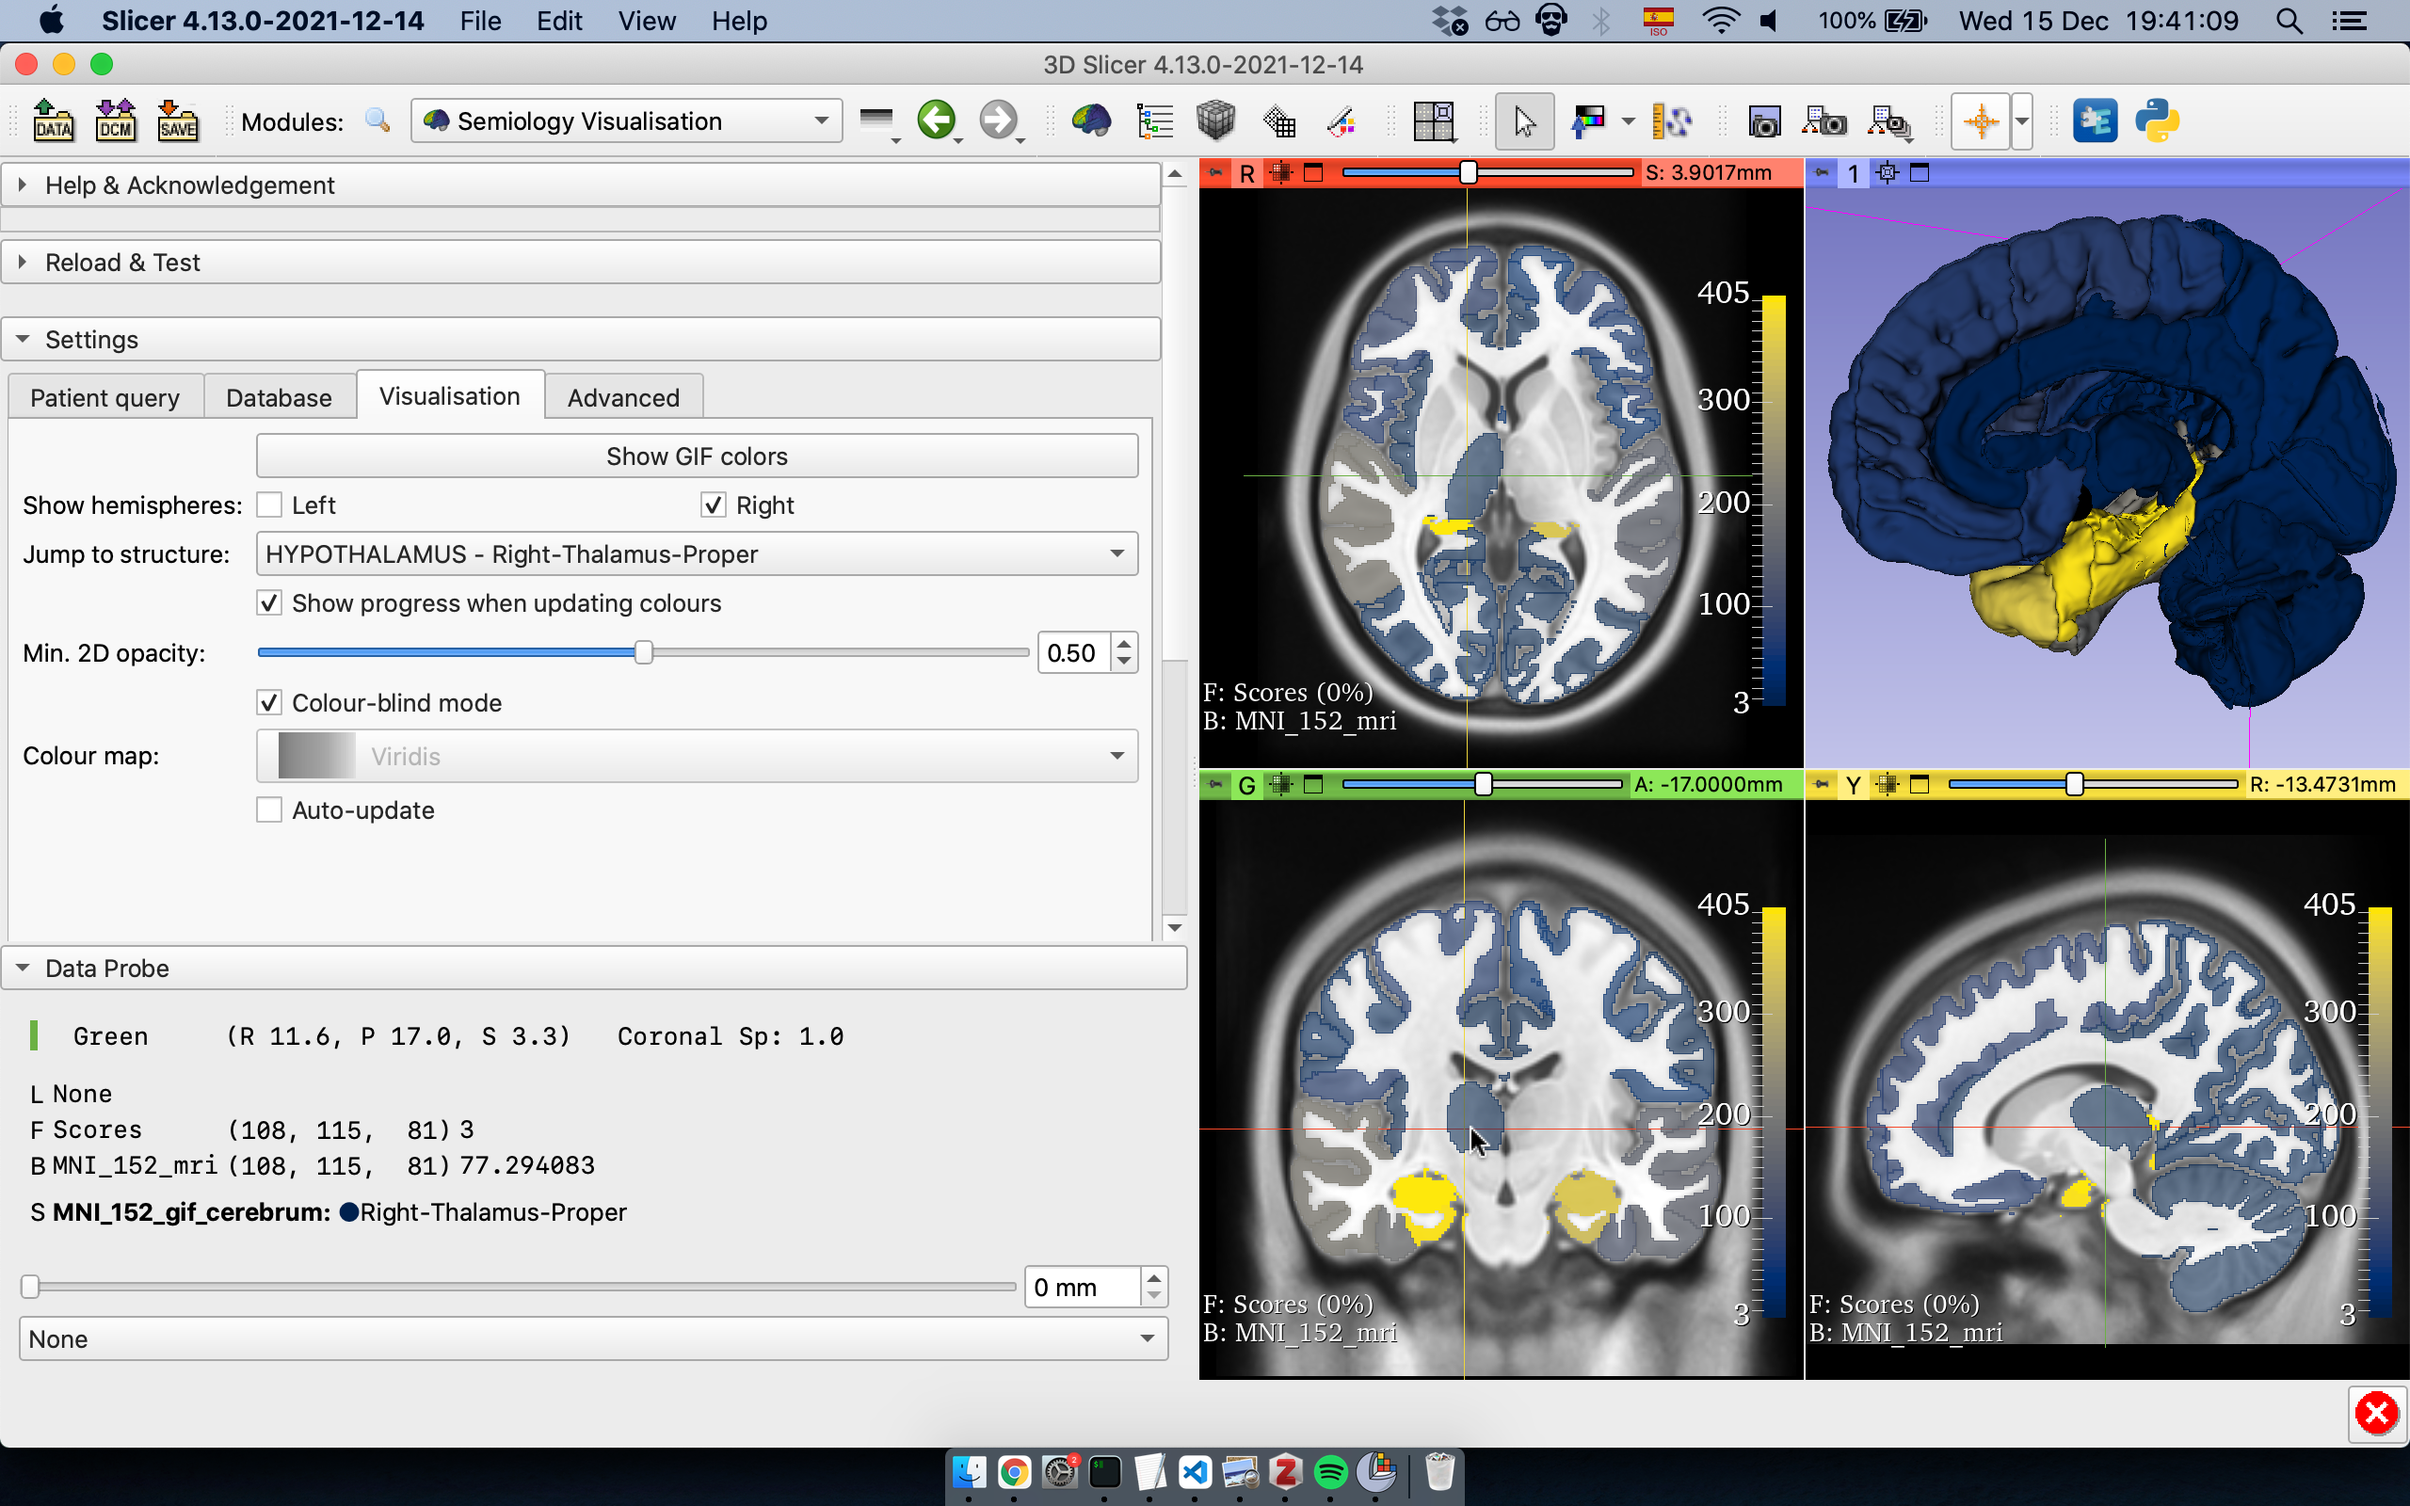
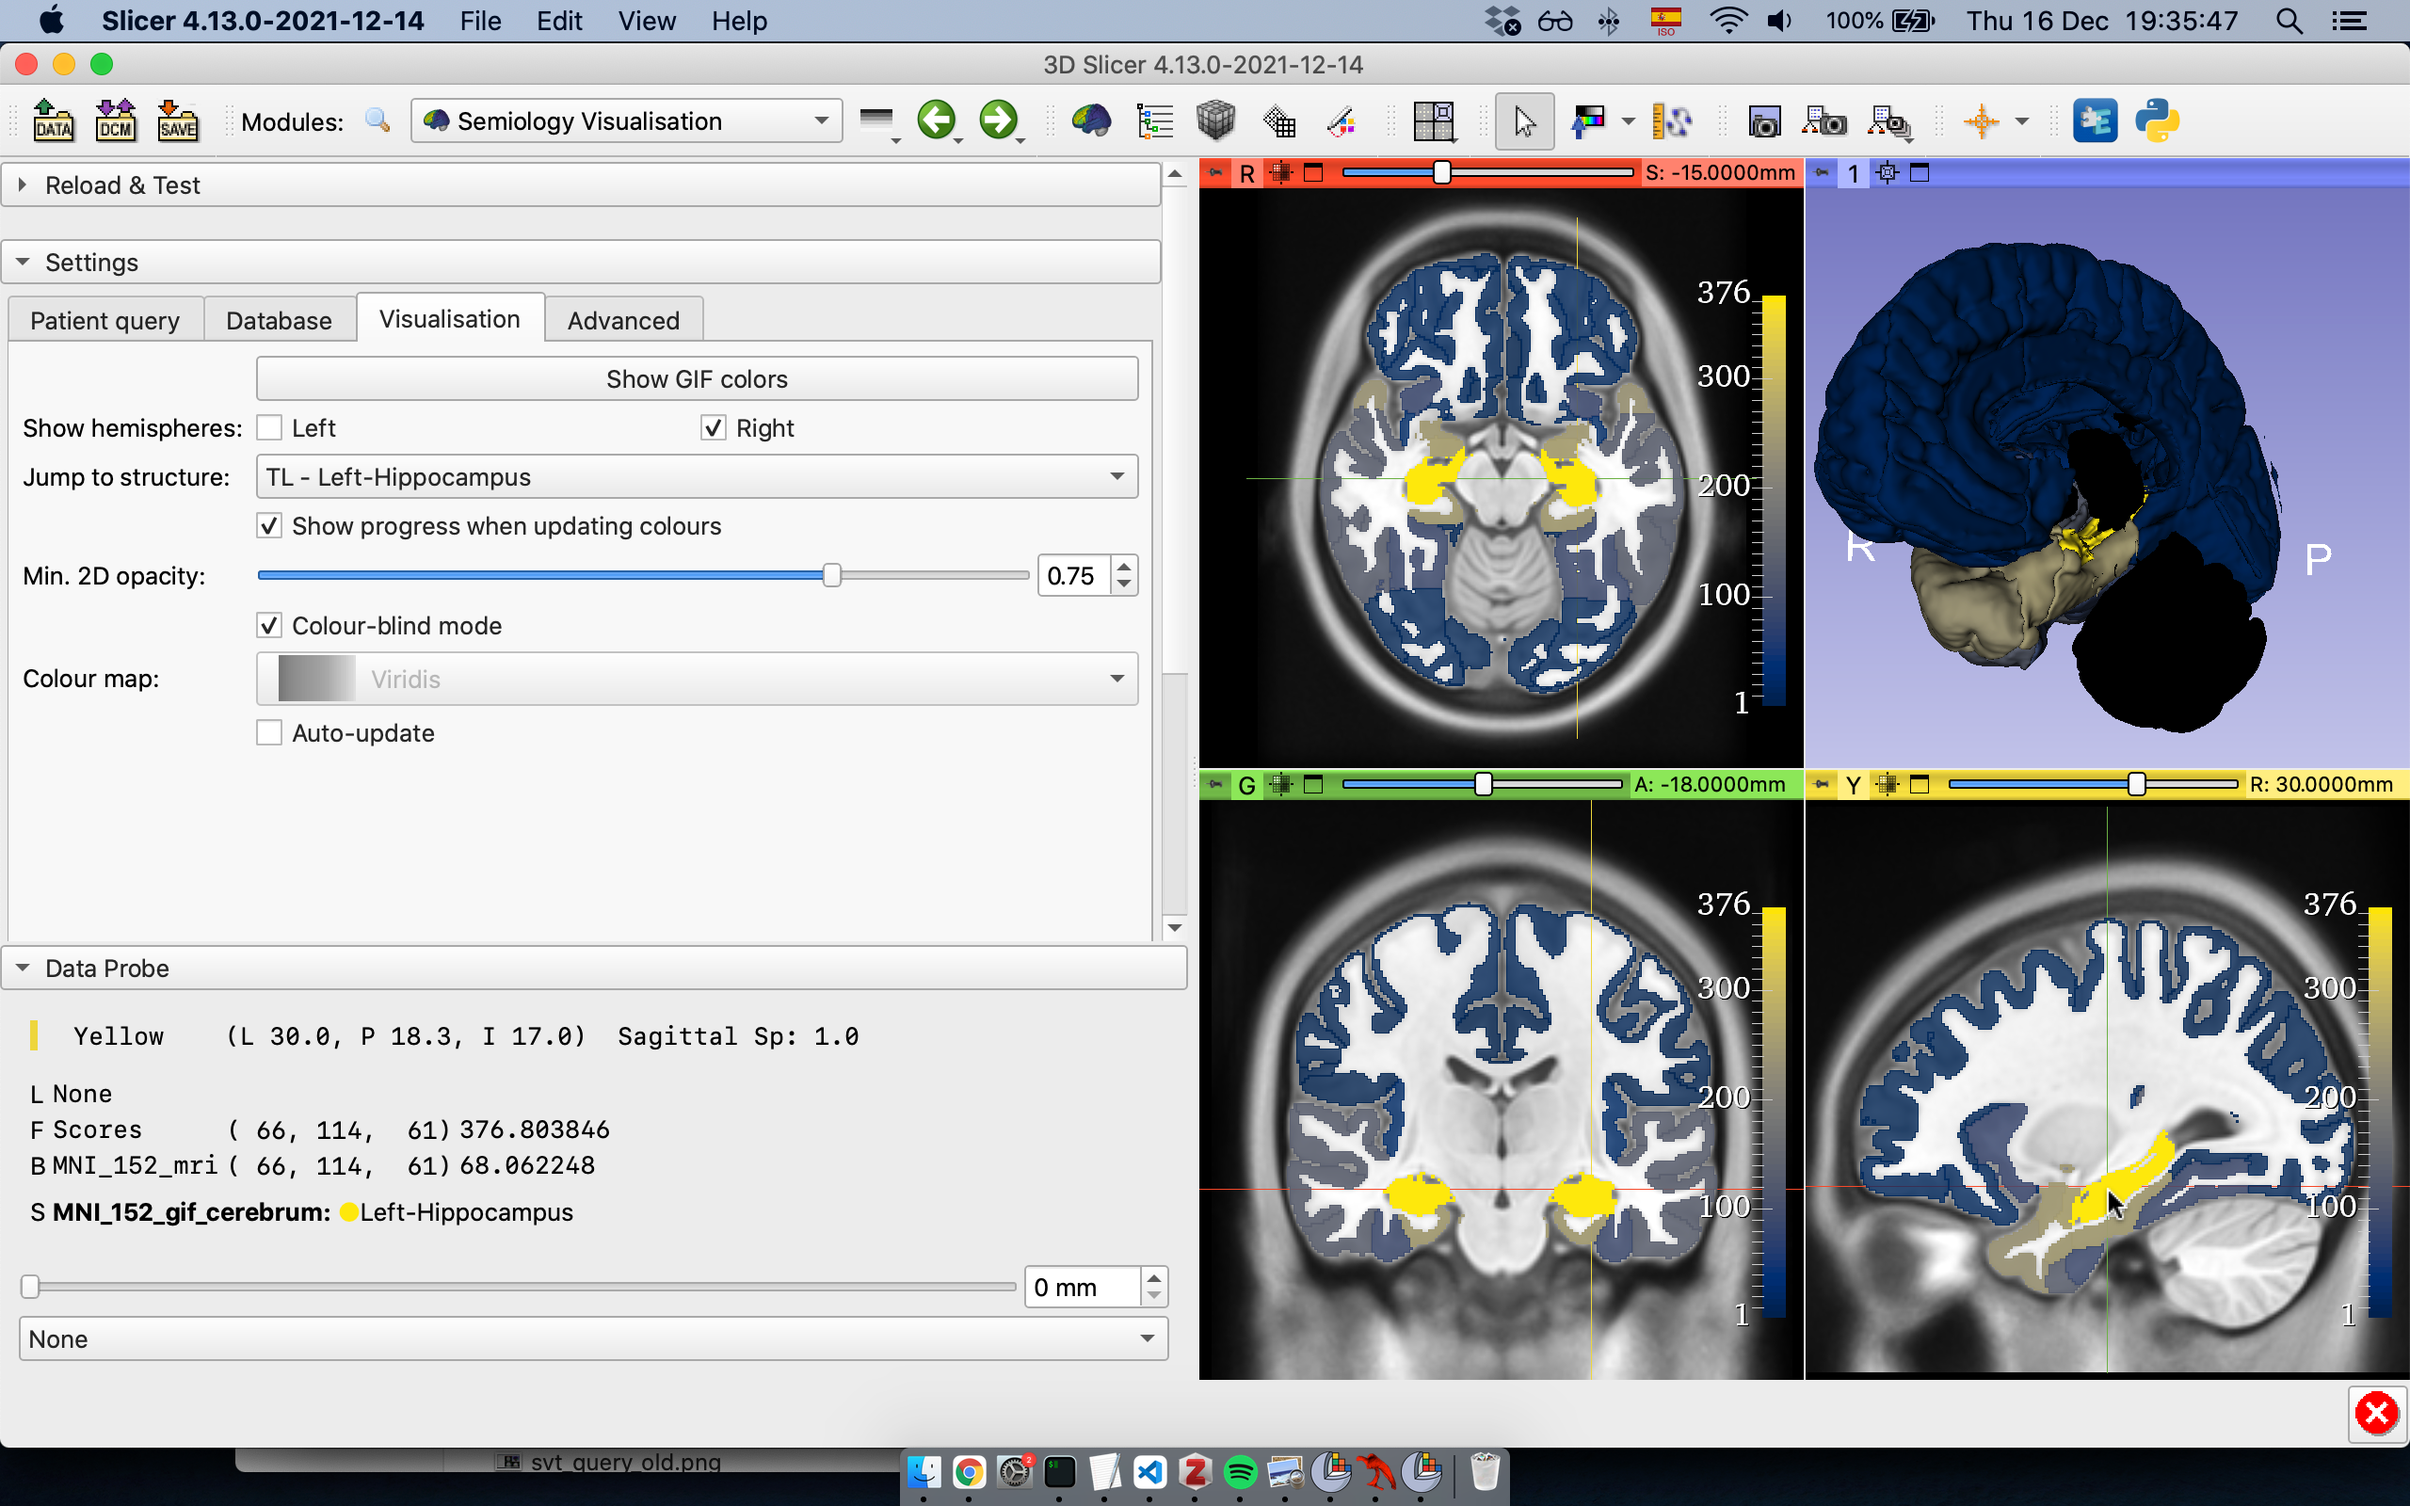
Add some screenshots

diff --git a/tex/mainmatter/chapter-3/methods.tex b/tex/mainmatter/chapter-3/methods.tex
@@ -40,14 +40,14 @@ All figures in this chapter show parcellations based on the Neuromorphometrics a
 Finally, a Slicer segmentation node is instantiated from the parcellation label map, 3D meshes are generated for visualization using the marching cubes algorithm \cite{lorensen_marching_1987,pinter_polymorph_2019} and the user is presented with the preprocessed data (\cref{fig:svt_loaded}).
 
 \newcommand{\svtscreenshot}[1]{
-  \includegraphics[trim=0 33 0 25, clip, width=\linewidth]{#1}
+  \includegraphics[trim=0 65 0 47, clip, width=\linewidth]{#1}
 }
 
 \begin{figure}
   \centering
-  \svtscreenshot{svt_loaded_patient}
+  \svtscreenshot{svt_loaded}
   \caption[Semiology visualization module after loading a patient's data]{
-    Semiology visualization module after loading a patient's \ac{T1w} \ac{MRI} and a corresponding brain parcellation.
+    Semiology visualization module after loading an \ac{MNI} template as image reference (as opposed to a patient's data) and its corresponding brain parcellation.
     Left: main panel containing a list of suggested semiology terms to be selected by the user;
     right: neuroimages in the patient's space.
     Images are shown using the radiological convention, i.e., the left hemisphere is shown on the right and vice versa.
@@ -110,8 +110,8 @@ The colorbars on the 2D slice views help mapping colors to number of datapoints.
 \begin{figure}
   \centering
   \svtscreenshot{svt_query}
-  \caption[Results of querying the database with the \textit{Head version (left)} semiology]{
-    Results of querying the database with the \textit{Head version (left)} semiology, using an \ac{MNI} template as image reference (as opposed to a patient's data).
+  \caption[Results of querying the database with the \textit{Epigastric} semiology]{
+    Results of querying the database with the \textit{Epigastric} semiology.
     Left: table showing the number of datapoints associated to each brain structure;
     right: \ac{EZ} probability map, where brightness (and opacity, on the 2D views) is linearly proportional to the number of datapoints.
   }
@@ -127,12 +127,12 @@ enabling the color blind mode, in which the color-blind-friendly \textit{cividis
 \begin{figure}
   \centering
   \svtscreenshot{svt_advanced}
-  \caption[Advanced visualization settings]{
-    Advanced visualization settings.
+  \caption[Demonstration of advanced visualization settings]{
+    Demonstration of advanced visualization settings.
     The selected settings are:
     show only the right hemisphere,
     center the views on the right thalamus,
-    set minimum opacity to 50\% (default is 25\%)
+    set minimum opacity to 75\% (default is 25\%)
     and enable color-blind mode.
   }
   \label{fig:svt_advanced}

diff --git a/tex/mainmatter/chapter-3/example.tex b/tex/mainmatter/chapter-3/example.tex
@@ -6,8 +6,26 @@ In this section, we demonstrate a usage example of our \ac{SVT} with a retrospec
 The patient was right-handed and presented head version to the right at the beginning of seizures.
 Ictal \ac{EEG} was non lateralizing and interictal \ac{EEG} showed bitemporal sharp waves.
 
-\Cref{} shows the result of querying the database with \textit{Head version (right)} and setting the dominant hemisphere to \textit{Left}.
+\Cref{fig:svt_case_heatmap} shows the result of querying the database with \textit{Head version (right)} and setting the dominant hemisphere to \textit{Left}.
 
+\begin{figure}
+  \centering
+  \svtscreenshot{svt_case_heatmap}
+  \caption[Caapt       ion]{
+    I need a caption
+  }
+  \label{fig:svt_case_heatmap}
+\end{figure}
+
+
+\begin{figure}
+  \centering
+  \svtscreenshot{svt_resection}
+  \caption[Caapt       ion]{
+    I need a caption
+  }
+  \label{fig:svt_resection}
+\end{figure}
 
 % Left dominant hemisphere
 % Aphasia

diff --git a/root.tex b/root.tex
@@ -16,7 +16,7 @@
   a4paper,
   11pt,
   twoside,
-  draft,
+  % draft,
 ]{StyleThese}
 
 \input{tex/config}
